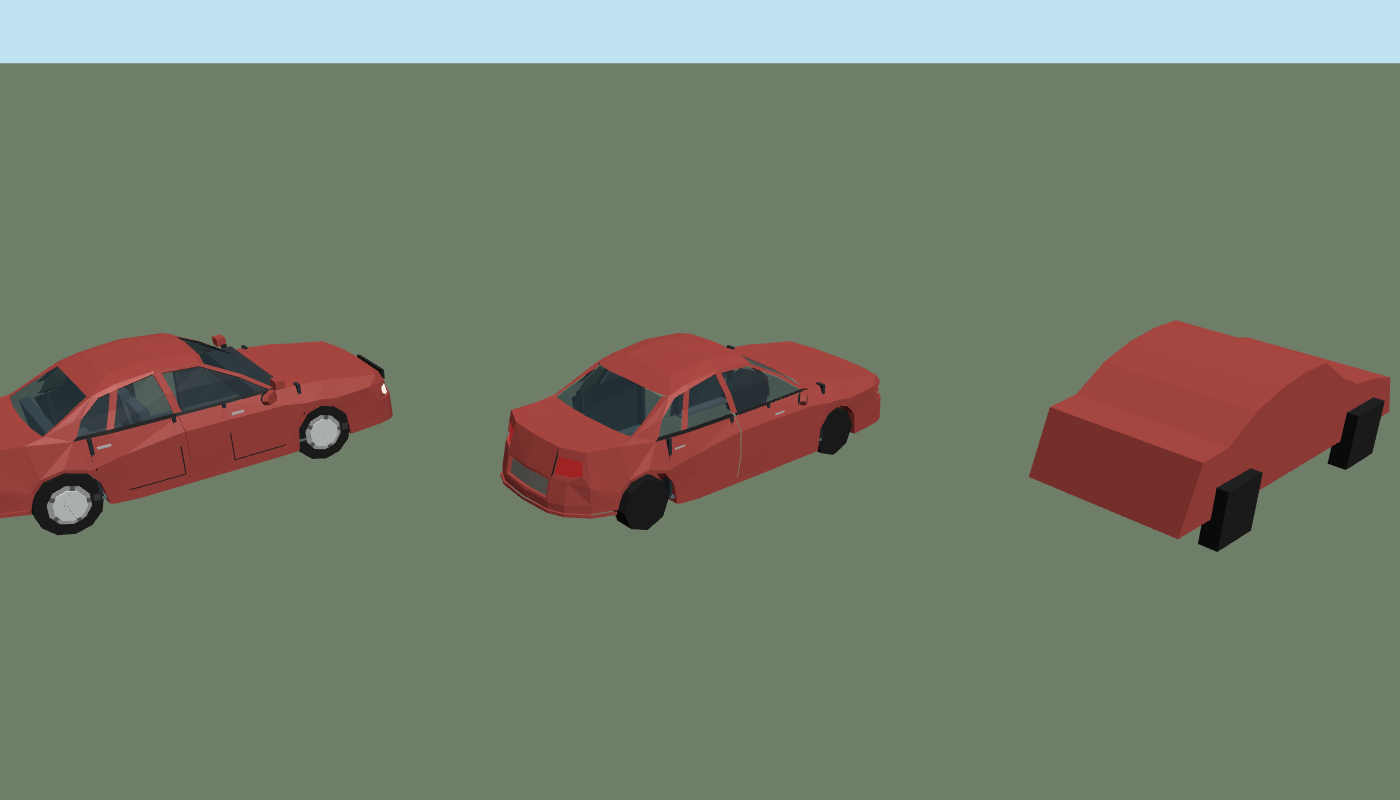
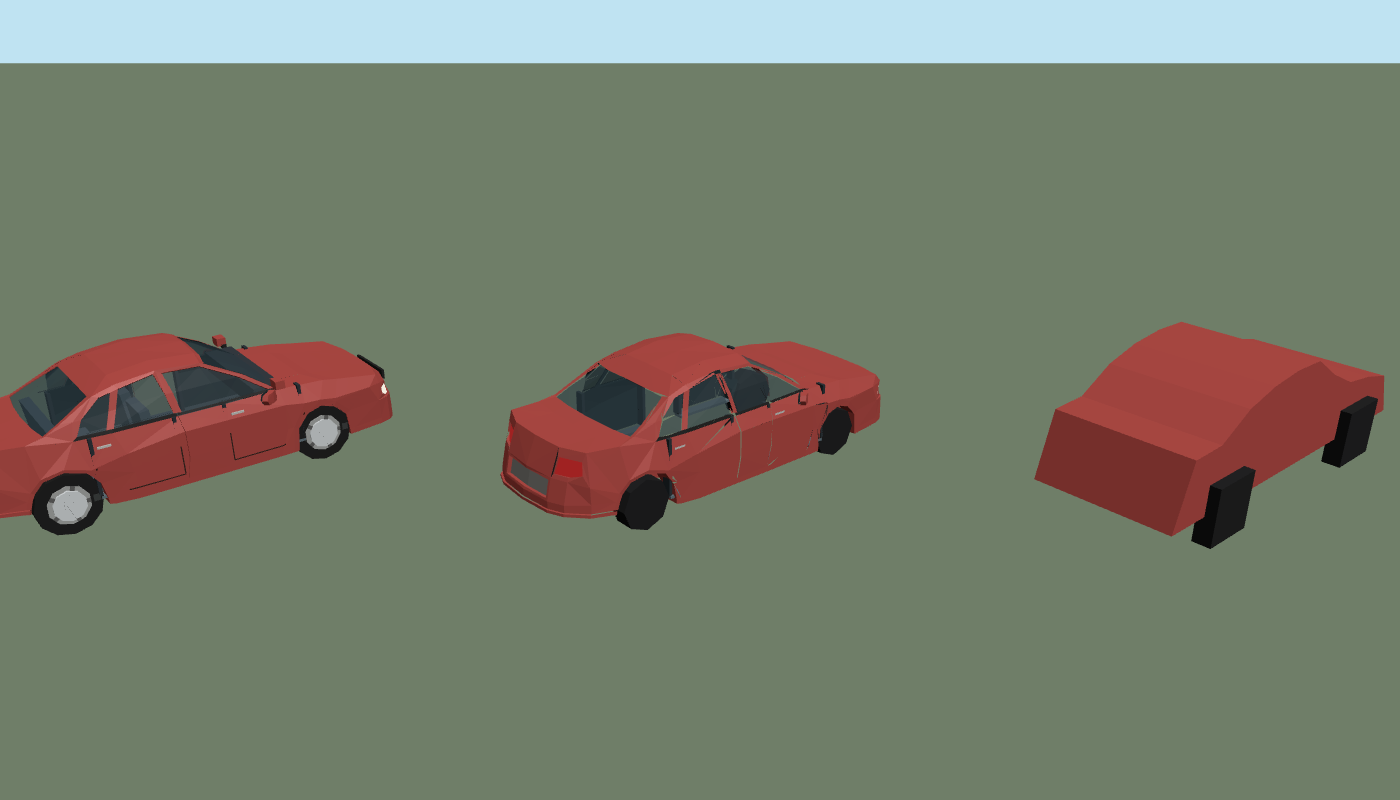
Vergelijkingspagina hybride, deuropeningen en LOD's; verslag vierde ronde, changelog, modellicenties

diff --git a/docs/beeld-23-11/objecten/vergelijking-hybride.html b/docs/beeld-23-11/objecten/vergelijking-hybride.html
@@ -1,36 +1,57 @@
 <!doctype html>
 <meta charset="utf-8">
-<title>Proef hybride auto: Quaternius-origineel, onze sedan, de hybride</title>
+<title>Hybride auto's, echte deuropeningen en LOD's (23-11)</title>
 <style>
   body { margin: 0; padding: 24px; background: #17301f; color: #f0ede4; font: 15px/1.45 system-ui, sans-serif; max-width: 1500px; }
-  h1 { margin: 0 0 6px; font-size: 22px; } h2 { font-size: 16px; margin: 18px 0 8px; color: #3fc97a; }
+  h1 { margin: 0 0 6px; font-size: 22px; } h2 { font-size: 16px; margin: 20px 0 8px; color: #3fc97a; }
   img { width: 100%; display: block; border: 1px solid rgba(240,237,228,0.16); margin-bottom: 6px; }
   table { border-collapse: collapse; } td, th { border: 1px solid rgba(240,237,228,0.2); padding: 4px 10px; text-align: left; vertical-align: top; }
   .klein { opacity: 0.75; font-size: 13px; }
 </style>
-<h1>Proef hybride auto (23-11): hun romp, onze functies</h1>
-<p class="klein">In elk beeld van links naar rechts: het Quaternius-origineel (Car.glb, CC0, buiten git geladen uit C:\Users\abuis\gde-assets\quaternius\cars\pack), onze
-procedurele sedan en de hybride (hun carrosserie omgezet naar vertexkleuren in game/js/models/qcar_sedan.js, met onze wielen, deuren, naden, lampen en schade).
-Zelfde kleur, zelfde hoek; headless Chrome, geen spelbelichting.</p>
-<h2>Dichtbij (13 m), achter en voor</h2><img src="h-hyb.png" alt="dichtbij, achterkant"><img src="h-hyb-achter.png" alt="dichtbij, voorkant">
-<h2>Dichtbij, deuren open</h2><img src="h-hyb-open.png" alt="dichtbij, deuren open">
-<h2>Op 20 m, dicht en open</h2><img src="h-hyb-ver.png" alt="20 m, dicht"><img src="h-hyb-ver-open.png" alt="20 m, open">
+<h1>Hybride auto's (Quaternius-romp, onze functies), echte deuropeningen en LOD's</h1>
+<p class="klein">Headless Chrome met <code>sheet.html</code>, geen spelbelichting; niets hiervan is in het spel zelf bekeken. Het Quaternius-origineel (Car.glb, CC0) wordt
+buiten git geladen uit C:\Users\abuis\gde-assets\quaternius\cars\pack en is alleen op deze machine te zien.</p>
+
+<h2>Hun origineel, onze eigen sedan, de hybride (dichtbij en op 20 m)</h2>
+<img src="g-hyb.png" alt="dichtbij"><img src="g-hyb-ver.png" alt="20 m">
+<h2>Zelfde, alle deuren open (dichtbij en op 20 m)</h2>
+<img src="g-hyb-open.png" alt="deuren open dichtbij"><img src="g-hyb-ver-open.png" alt="deuren open 20 m">
+
+<h2>Echte deuropening: close-up recht van opzij, deuren aan deze kant open (links de hybride sedan, rechts onze eigen stationwagen)</h2>
+<img src="g-gat-opzij-open-eenkant.png" alt="recht van opzij, open">
+<p class="klein">Ter vergelijking dicht: de deur vult het gat.</p>
+<img src="g-gat-opzij.png" alt="recht van opzij, dicht">
+<h2>Echte deuropening: schuin van boven</h2>
+<img src="g-gat-boven-open-eenkant.png" alt="schuin van boven, open">
+<h2>Bakwagen, trekker en trekker-limo: ook een echt gat (schuin van boven en van opzij)</h2>
+<img src="g-gat2-boven-open-eenkant.png" alt="bakwagen, trekker, trekker-limo van boven">
+<img src="g-gat2-opzij-open-eenkant.png" alt="bakwagen, trekker, trekker-limo van opzij">
+
+<h2>LOD's (centraal systeem, soort 'vehicle'): dezelfde sedan op niveau 0, 1 en 2</h2>
+<img src="g-lod.png" alt="LOD 0, 1, 2">
+
 <h2>Per functie</h2>
 <table>
-  <tr><th>Functie</th><th>Hybride</th></tr>
-  <tr><td>Wielen draaien en sturen</td><td>Werkt: onze wielgeometrie op hun wielplekken (hun eigen wielen, 420 driehoeken per stuk, vallen weg).</td></tr>
-  <tr><td>Kleurvarianten</td><td>Werkt: hun lak wordt de kleur van het voertuig.</td></tr>
-  <tr><td>Lichten</td><td>Werkt: koplampen en achterlichten in onze lampgroep.</td></tr>
-  <tr><td>Deurnaden</td><td>Werkt: de naden volgen de gebogen flank (gemeten per stukje van 30 cm).</td></tr>
-  <tr><td>Deuren open, interieur</td><td>Werkt: de deur zit op hun flank; het interieurvlak is hetzelfde. Het deurblad en de raamlijst zijn nog onze vlakke vorm, niet de hunne.</td></tr>
-  <tr><td>Schade (deuken)</td><td>Werkt, zonder NaN. Losse delen (grille, spiegels, wieldoppen) en hangende bumpers ontbreken: die horen bij onze bouwer.</td></tr>
-  <tr><td>Cabine-LOD</td><td>Onzeker: cabin3d.js plaatst dashboard en stoelen naar het profiel van onze sedan (dak 1,45); het hybride dak is 1,40. Niet in het spel bekeken.</td></tr>
-  <tr><td>Politie, taxi, ambulance, varianten (roest, tokkie, EV), tuning</td><td>Breekt: die zitten in onze bouwer; de hybride is alleen de gewone sedan.</td></tr>
+  <tr><th>Functie</th><th>Stand</th><th>Test</th></tr>
+  <tr><td>Echte deuropening (geen romp in het gat, open: interieur of overkant, dicht: geen kier)</td><td>Hybrides, onze eigen auto's, bestelbus, bakwagen, trekker, trekker-limo</td><td>deuropening_test.mjs</td></tr>
+  <tr><td>Deurblad in de vorm van de romp, met dikte, binnenkant en handvat</td><td>Hybride: uitgeknipt stuk romp; blokkenrompen: uitgeknipt zijvlak; eigen auto's: vlak paneel in het gat</td><td>vehicledoors3d_test.mjs</td></tr>
+  <tr><td>Wielen draaien en sturen, kleur, lampen, schade met losse delen en hangende bumper</td><td>Werkt</td><td>hybridecar_test.mjs</td></tr>
+  <tr><td>Schaal (lengte, breedte, hoogte, wielbasis, wiel, deuropening, hoofd onder het dak)</td><td>Alle hybrides binnen de norm</td><td>voertuigschaal_test.mjs</td></tr>
+  <tr><td>Botsmaat = getekende maat</td><td>Alle hybrides (binnen 3 cm)</td><td>botsmaat_test.mjs</td></tr>
+  <tr><td>LOD's met dither</td><td>Alle voertuigen behalve fiets, step, paard (berijder) en boten (die doet het centrale systeem zelf)</td><td>vehiclelod_test.mjs (met de audit van lodregistry.js)</td></tr>
+  <tr><td>Politie, taxi</td><td>Hybride met lichtbalk, knipperende lampen, strepen (op de deur mee), taxibord</td><td>deuropening_test.mjs, botsmaat_test.mjs</td></tr>
+  <tr><td>Ambulance, Escapade, roest, tokkie, elektrisch, tuning, stationwagen, bestelbus</td><td>Onze eigen bouwer (met echte deurgaten)</td><td>voertuigmodel_test.mjs</td></tr>
 </table>
-<h2>Prestaties (per voertuig)</h2>
+
+<h2>Prestaties (per voertuig, driehoeken op niveau 0 / 1 / 2)</h2>
 <table>
-  <tr><th></th><th>Driehoeken</th><th>Meshes</th></tr>
-  <tr><td>Quaternius-origineel (Car.glb)</td><td>2.954 (romp 1.274, wielen 1.680)</td><td>12</td></tr>
-  <tr><td>Onze sedan</td><td>1.908</td><td>12</td></tr>
-  <tr><td>Hybride</td><td>2.098</td><td>5</td></tr>
+  <tr><th>Model</th><th>Niveau 0</th><th>1 (vanaf 35 m)</th><th>2 (vanaf 90 m)</th></tr>
+  <tr><td>Hybride sedan</td><td>3.553</td><td>1.817</td><td>92</td></tr>
+  <tr><td>Hybride SUV</td><td>3.938</td><td>2.046</td><td>92</td></tr>
+  <tr><td>Hybride politie</td><td>3.783</td><td>1.975</td><td>92</td></tr>
+  <tr><td>Stationwagen (eigen bouwer)</td><td>2.384</td><td>934</td><td>92</td></tr>
+  <tr><td>Bus</td><td>3.384</td><td>1.210</td><td>92</td></tr>
+  <tr><td>Trekker-limo</td><td>5.970</td><td>1.902</td><td>92</td></tr>
 </table>
+<p class="klein">Ter vergelijking: onze eigen sedan was vóór deze ronde 1.908 driehoeken in 12 meshes, zonder LOD. Het knippen van de deuren en de deurbladen kost
+op niveau 0 meer, alleen binnen 35 m.</p>

diff --git a/docs/beeld-23-11/objecten/sheet.html b/docs/beeld-23-11/objecten/sheet.html
@@ -20,7 +20,7 @@
   const { buildVehicleMesh } = await import(root + (location.hash.includes('oud') ? 'game/js/_oud_voertuigen_tmp.js' : 'game/js/models3d_vehicles.js'));
   const { BOAT_KINDS } = await import(root + 'game/js/boattypes.js');
   const { syncVehicleDoors } = await import(root + 'game/js/vehicledoors3d.js');
-  const { zetLodNiveau } = await import(root + 'game/js/vehiclelod3d.js');
+  const { zetLodAfstand } = await import(root + 'game/js/vehiclelod3d.js');
   const mode = (location.hash || '#auto').slice(1);
   const night = mode.includes('nacht') ? 1 : 0;
   const achter = mode.includes('achter');
@@ -54,6 +54,7 @@
     hyb: [{ glb: 'Car.glb' }, { model: { name: 'sedan', len: 4.3, wid: 1.8, color: '#90b0d1' } }, { model: { name: 'sedan', len: 4.3, wid: 1.8, color: '#90b0d1', hybride: true } }],
     // gat: de echte deuropening, de hybride sedan en onze eigen stationwagen; lod: dezelfde sedan op niveau 0, 1 en 2
     gat: [{ model: { name: 'sedan', len: 4.3, wid: 1.8, color: '#a3473f' } }, { model: { name: 'wagon', len: 4.5, wid: 1.8, color: '#6e937c' } }],
+    gat2: [{ model: { name: 'truck', len: 8.5, wid: 2.5, color: '#e8e6e0' } }, { model: { name: 'tractor', len: 4.3, wid: 2.3, color: '#3f7d3a' } }, { model: { name: 'trekkerlimo', len: 5.6, wid: 2.0, color: '#141414' } }],
     lod: [0, 1, 2].map((n) => ({ model: { name: 'sedan', len: 4.3, wid: 1.8, color: '#a3473f' }, lodNiveau: n })),
     vgl: [car('sedan', 4.3, 1.8, '#a3473f'), car('hatch', 3.8, 1.7, '#5a7392'), car('wagon', 4.5, 1.8, '#6e937c')],
     auto1: [car('sedan', 4.3, 1.8, '#7a1f1f'), car('hatch', 3.8, 1.7, '#c7c9cc')],
@@ -62,7 +63,7 @@
     heli: [{ model: { name: 'heli', len: 9, wid: 2.4, color: '#c23b2e' }, isHeli: true }],
   };
   const specs = SETS[set];
-  const gapV = set === 'vgl' || set === 'hyb' || set === 'lod' ? 5.6 : set === 'gat' ? 5.4 : 0; const cols = set === 'bus' || set === 'heli' || set === 'limo' ? 1 : set === 'deur1' || set === 'auto1' || set === 'gat' ? 2 : set === 'vgl' ? 3 : 3, vehicles = [];
+  const gapV = set === 'vgl' || set === 'hyb' || set === 'lod' ? 5.6 : set === 'gat' ? 5.4 : set === 'gat2' ? 9 : 0; const cols = set === 'bus' || set === 'heli' || set === 'limo' ? 1 : set === 'deur1' || set === 'auto1' || set === 'gat' ? 2 : 3, vehicles = [];
   const gap = set === 'boot' ? 12 : gapV || 7;
   let GLTF = null;
   if (set === 'hyb') GLTF = (await import('https://cdn.jsdelivr.net/npm/three@0.160.0/examples/jsm/loaders/GLTFLoader.js')).GLTFLoader;
@@ -72,7 +73,7 @@
     let m;
     if (s.glb) { m = new THREE.Group(); if (glbs[i]) { glbs[i].rotation.y = Math.PI / 2; m.add(glbs[i]); } } // hun +z voor -> onze +x voor
     else m = buildVehicleMesh(v);
-    if (s.lodNiveau !== undefined) zetLodNiveau(m, s.lodNiveau);
+    if (s.lodNiveau !== undefined) zetLodAfstand(m, [0, 60, 200][s.lodNiveau]); // het niveau dat het centrale systeem op die afstand kiest
     m.position.set((i % cols - (cols - 1) / 2) * gap, 0, (Math.floor(i / cols) - (Math.ceil(specs.length / cols) - 1) / 2) * (set === 'boot' ? 11 : set === 'bus' ? 10 : 8));
     m.rotation.y = (mode.includes('opzij') ? 0 : zij ? 0.22 : 0.7) + (achter ? Math.PI : 0);
     scene.add(m); vehicles.push(m);
@@ -83,7 +84,7 @@
       for (let k = 0; k < 40; k++) for (const rol of rollen) for (const side of (mode.includes('eenkant') ? [1] : [-1, 1])) syncVehicleDoors(m, v, 0.05, { rol, open: true, side });
     }
   });
-  const dist = set === 'gat' ? 7.5 : set === 'lod' ? 12 : set === 'vgl' || set === 'hyb' ? (mode.includes('ver') ? 20 : set === 'hyb' ? 13 : 11) : set === 'limo' || set === 'deur1' || set === 'auto1' ? 9 : set === 'deur' ? 17 : set === 'limo' ? 16 : set === 'boot' ? 36 : set === 'bus' ? 24 : set === 'bak' ? 24 : set === 'fiets' ? 12 : set === 'heli' ? 18 : 20;
+  const dist = set === 'gat' ? 7.5 : set === 'gat2' ? 15 : set === 'lod' ? 12 : set === 'vgl' || set === 'hyb' ? (mode.includes('ver') ? 20 : set === 'hyb' ? 13 : 11) : set === 'limo' || set === 'deur1' || set === 'auto1' ? 9 : set === 'deur' ? 17 : set === 'limo' ? 16 : set === 'boot' ? 36 : set === 'bus' ? 24 : set === 'bak' ? 24 : set === 'fiets' ? 12 : set === 'heli' ? 18 : 20;
   const cam = new THREE.PerspectiveCamera(36, W / H, 0.1, 400);
   if (mode.includes('boven')) cam.position.set(0, dist * 1.1, dist * 0.55);
   else if (mode.includes('opzij')) cam.position.set(0, 1.0, dist);

diff --git a/docs/AAA-OBJECTEN-23-11.md b/docs/AAA-OBJECTEN-23-11.md
@@ -140,7 +140,7 @@ Niet in het spel bekeken.
 
 Het pakket stond later wel klaar (`C:\Users\abuis\gde-assets\quaternius\cars\pack`, 7 glb, CC0, door de eigenaar gedownload). De
 coördinator vond het bijschaven van onze bouwer nog steeds een kleine stap en vroeg een proef met hun carrosserie als basis.
-- `scripts/convert_quaternius_car.mjs` zet `Car.glb` om naar `game/js/models/qcar_sedan.js` (36 kB): alleen de carrosserie,
+- `scripts/convert_quaternius_car.mjs` zet `Car.glb` om naar een kleine module (eerst `qcar_sedan.js`, nu `qcars.js`): alleen de carrosserie,
   in onze assen, op een millimeter, met per hoekpunt een rol (lak, glas, koplamp, achterlicht, zwart, grijs, onderkant); de
   wielplekken en -straal. Licentie en herkomst: `docs/MODEL-LICENTIES.md`.
 - `buildHybridCar` (models3d_vehicles.js), alleen met `model.hybride` op een sedan of stationwagen: hun romp in onze drie
@@ -159,7 +159,54 @@ gewone personenauto's (hun Car, Car2, SUV en sportauto's, telkens één omzettin
 (politie, taxi, ambulance, Escapade, tuning) tot die per uitvoering zijn overgezet. Eerst nog in het spel bekijken: de cabine (dashboard
 en stoelen onder het lagere dak) en de koplampkegels van nightlights3d.js.
 
+## Vierde ronde: hybride standaard, echte deuropeningen, schaal, botsmaat en LOD's
+
+Opdracht van de coördinator (eisen van de eigenaar), op deze tak, vanaf de WIP-commit fbe4805c9.
+
+- **Hybride standaard.** Alle zeven auto's uit het pakket zijn omgezet (`game/js/models/qcars.js`, 139 kB, gedeelde hoekpunten en een
+  index; lagen die in het origineel op elkaar lagen zijn 3,2 cm uit elkaar geschoven). `hybridKey` kiest de hybride voor de gewone
+  sedan, hatchback, SUV, sportauto (twee varianten), politieauto en taxi; ambulance, de Escapade, roest, tokkie, elektrisch, belettering,
+  tuning (`v.look`) en `model.hybride === false` houden onze eigen bouwer. Op de hybride: politiestrepen (het stuk op een deur gaat mee
+  met het deurblad), lichtbalk met onze knipperende lampen, losse grille, spiegels en uitlaat, wieldoppen, hangende bumpers bij schade.
+- **Echte deuropeningen** (eis eigenaar: een gat in de romp, de deur vult het, open kijk je de auto in). Hybride: de flank wordt langs
+  de deurcontour geknipt (Sutherland-Hodgman), het uitgeknipte stuk romp (met ruit) is het deurblad, met een binnenkant op 3,5 cm en
+  een handvat; deurstijlen en een dorpel in de opening; een eenvoudig interieur (vloer, stoelen, achterbank, dashboard) dat wijkt voor
+  de echte cabine van `cabin3d.js`. Onze eigen bouwer: gaten in de extrusie (alleen deuren die links en rechts op dezelfde plek zitten,
+  van de wielkasten af), de versiering op de deur (strepen, sierlijn, handvat) gaat mee naar het deurblad (`moveDoorDecor`). Bakwagen,
+  trekker en trekker-limo: de flank van de blokkenromp wordt op dezelfde manier geknipt (`knipDeurgaten`), met een binnenbak met vloer
+  en stoel. `scripts/deuropening_test.mjs` controleert voor alle deze voertuigen: (a) geen flank binnen de deurcontour, (b) een straal
+  door de open opening raakt eerst interieur of de overkant, (c) dicht raakt hij eerst de dichte deur in de flank. De schuifdeur van de
+  bestelbus en de laadkleppen houden hun oude vlak (ze zitten maar aan één kant of achterop).
+- **Deuren.** Alle portieren scharnieren voor en gaan 63 graden open; bij een echt gat staat de dichte deur in de rig in de flank.
+- **Schaal** (eis eigenaar): de getekende maat per model staat in het register (`VOERTUIG_REGISTER[..].schaal`) en is getoetst aan
+  `VOERTUIG_NORM` (`scripts/voertuigschaal_test.mjs`). Hun auto's waren 1,15 tot 1,24 m hoog; de hoogte gaat per model naar 1,42 tot 1,45
+  (SUV 1,70), gemeten tot de bovenkant van de ruiten plus het dak, zonder daklicht of taxibord. Lengte 4,25 tot 4,55, breedte 1,78 tot
+  1,85, wielbasis 2,59 tot 2,78, wieldiameter 0,61 tot 0,73. Andere voertuigen (alleen gemeld): de bus is over de romp 2,60 m breed,
+  de 3,2 m kwam van de spiegels (vooraan op 2,2-2,5 m hoogte, 32 cm per kant); de midibus 2,45 m romp; trekker-limo 2,18 m over de
+  spatborden van de trekker (botsbreedte 2,0); bakwagen 2,59 m romp; heli en sloep binnen gangbare maten.
+- **Botsmaat** (een bug, geen keuze): een hybride botst nu met zijn getekende lengte en breedte (`getekendeMaat` in `propregister.js`,
+  toegepast in de constructor van `Vehicle`; het sjabloon blijft ongewijzigd). `scripts/botsmaat_test.mjs`: botsmaat en romp binnen 3 cm.
+  Een uitvoering met onze eigen bouwer houdt de maat uit het sjabloon (die tekent ook op die maat).
+- **LOD's op het centrale systeem.** `vehiclelod3d.js` gebruikt de `DitherLOD` van `lod3d.js`, de opgave van de soort `vehicle` uit
+  `lodregistry.js` (35 / 90 m, band 8, weg 450, meeschalend via `lodkit3d.js`) en `registerLodModel`; de vijf bestanden van het centrale
+  systeem (lodlevels, lod3d, lodsimplify, lodregistry, lodkit3d) zijn ongewijzigd overgenomen van `perf-ultra-23-11`, zodat het bij het
+  samenvoegen één systeem is. Voertuigspecifiek blijft alleen de geometrie: niveau 1 is de romp met dichte deuren en eenvoudige wielen
+  zonder naden, interieur en kleine driehoekjes (haalt hij de minCut niet, zoals de heli, dan vereenvoudigt `lodsimplify.js` hem
+  verder), niveau 2 het silhouet in de hoofdkleur. Boten krijgen hun LOD's in het centrale systeem zelf (`buildBoatMesh` op die tak).
+  `scripts/vehiclelod_test.mjs` controleert de niveaus op afstand, de dither op de grens en de audit van het register. Op die tak hoort
+  de voertuigbouw nog in het blok 'bouwen' van `scripts/lod_audit_test.mjs`; dat bestand staat niet op deze tak.
+- Beelden en vergelijking: `docs/beeld-23-11/objecten/vergelijking-hybride.html` (origineel, onze sedan en de hybride dichtbij en op
+  20 m, dicht en open; recht van opzij en schuin van boven met de deur open; bakwagen, trekker en trekker-limo; de drie LOD-niveaus).
+
+Aangepaste tests (bewust): `vehicledoors3d_test` telt bij een echt gat alleen deuren die uit hun rustpositie staan; `vehicledoors_test`
+verwacht 63 graden; `voertuigmodel_test`, `vehicledoorcuts_test` en `vehicle_interior_plate_test` keuren onze eigen bouwer
+(`hybride: false`); `vehicle_zfight_test` staat bij de hybrides snippers langs de knipranden toe (geen flush, samen onder 50 cm2).
+
 ## Niet in beeld gezien
+
+- Vierde ronde: niets in het spel bekeken; geen fps gemeten (alleen driehoeken). De echte cabine van `cabin3d.js` in de hybride (die volgt
+  `hybridFit`), het verkeer met de nieuwe botsmaten (rijbanen, parkeerplekken, garages: een hatchback is nu 4,33 m in plaats van 3,8 m),
+  de dither-overgang tussen de LOD-niveaus in beweging, en de politielampen en koplampen 's nachts op de hybride.
 
 - Geen enkel model is in het echte spel bekeken (geen Electron-run; de perf-agent had het slot). Alleen het contactblad is gezien.
 - De trekker-limo met bestuurder en passagiers (de zithoogte `y: 0.5` van `limoStoel` is gekozen naar de auto's, niet bekeken).

diff --git a/CHANGELOG.md b/CHANGELOG.md
@@ -12,6 +12,9 @@ elke versie is één `## [x.y.z]`-blok met Nederlandse regels.
 - Voertuigen: elk voertuig met openende deuren heeft nu een zichtbare naad rond het deurpaneel en een handvat, ook als de deur dicht is. Een open deur heeft dikte en een bekleding aan de binnenkant, en je kijkt in het interieur in plaats van in een zwart vlak. Hoge cabinedeuren (vrachtwagen, trekker) hebben een dicht onderpaneel met de ruit erboven.
 - Trekker-limo van Jelle: opnieuw gebouwd met een echte trekkerkop (kap, grille, ronde koplampen, noppenbanden), een limousine met wielkasten, witte flanken, glanzende lak, chroom, een rode loper over de kofferklep en achterin twee banken met een barkastje en gouden glazen. De voorwielen sturen, de wielen draaien met de juiste snelheid en er zijn deuren om in en uit te stappen.
 - Helikopter: afgeronde motorkap, interieur met stoelen en dashboard, schuifdeur met naad en raampje, bladen met gele tippen.
+- Auto's: de gewone personenauto's, de politieauto en de taxi hebben een nieuwe, rondere carrosserie (uit een vrij te gebruiken modelpakket) met alles wat het spel al had: deuren, interieur, sturende wielen, lichten, schade en kleuren. Ze zijn op echte maten gebracht (hoogte 1,42 tot 1,50 m, SUV 1,70) en botsen nu precies zo groot als ze eruitzien.
+- Deuren: de carrosserie heeft een echte opening waar de deur zit. Open kijk je de auto in (stoelen, vloer, dashboard), dicht vult de deur het gat. Ook bij de vrachtwagen, de trekker en de trekker-limo. Alle portieren scharnieren aan de voorkant.
+- Voertuigen worden op afstand eenvoudiger getekend (twee niveaus, met een zachte overgang), zodat drukke straten lichter zijn.
 - Straatmeubilair: parkbank met latten en gietijzer, afvalbak met deksel en klep, fietsenrek met beugels, bushokje met glas, bank en lijnkaart, paaltje met reflectiebanden. Ze komen uit één register (`propregister.js`) en staan in de stad, het buitengebied en de cutscenes.
 
 ## [0.65.0] - 2026-11-22

diff --git a/docs/MODEL-LICENTIES.md b/docs/MODEL-LICENTIES.md
@@ -5,7 +5,7 @@ Stand 23-11-2026. Alleen modellen die (omgezet) in de repo staan; de originele p
 
 | Model in de repo | Bron | Licentie | Auteur (handle) | Gebruik |
 |---|---|---|---|---|
-| `game/js/models/qcar_sedan.js` (carrosserie, omgezet door `scripts/convert_quaternius_car.mjs` uit `Car.glb`) | Cars Bundle, https://poly.pizza/bundle/Cars-Bundle-FE5IWe6OMk en https://quaternius.com/packs/cars.html (gedownload door de eigenaar, 23-11) | CC0 1.0 | Quaternius | proef hybride auto (alleen met `model.hybride`), zie `docs/AAA-OBJECTEN-23-11.md` |
+| `game/js/models/qcars.js` (de carrosserieën van Car, Car (klein), SUV, Sports Car (twee), Taxi en Police Car, omgezet door `scripts/convert_quaternius_car.mjs`) | Cars Bundle, https://poly.pizza/bundle/Cars-Bundle-FE5IWe6OMk en https://quaternius.com/packs/cars.html (gedownload door de eigenaar, 23-11) | CC0 1.0 | Quaternius | de gewone personenauto's, politie en taxi in het spel (hybride: hun romp, onze functies), zie `docs/AAA-OBJECTEN-23-11.md` |
 
 CC0 vraagt geen naamsvermelding; de handle staat hier uit beleefdheid en voor de herkomst. Geen echte namen, geen merken of logo's
 (het model heeft er geen).
